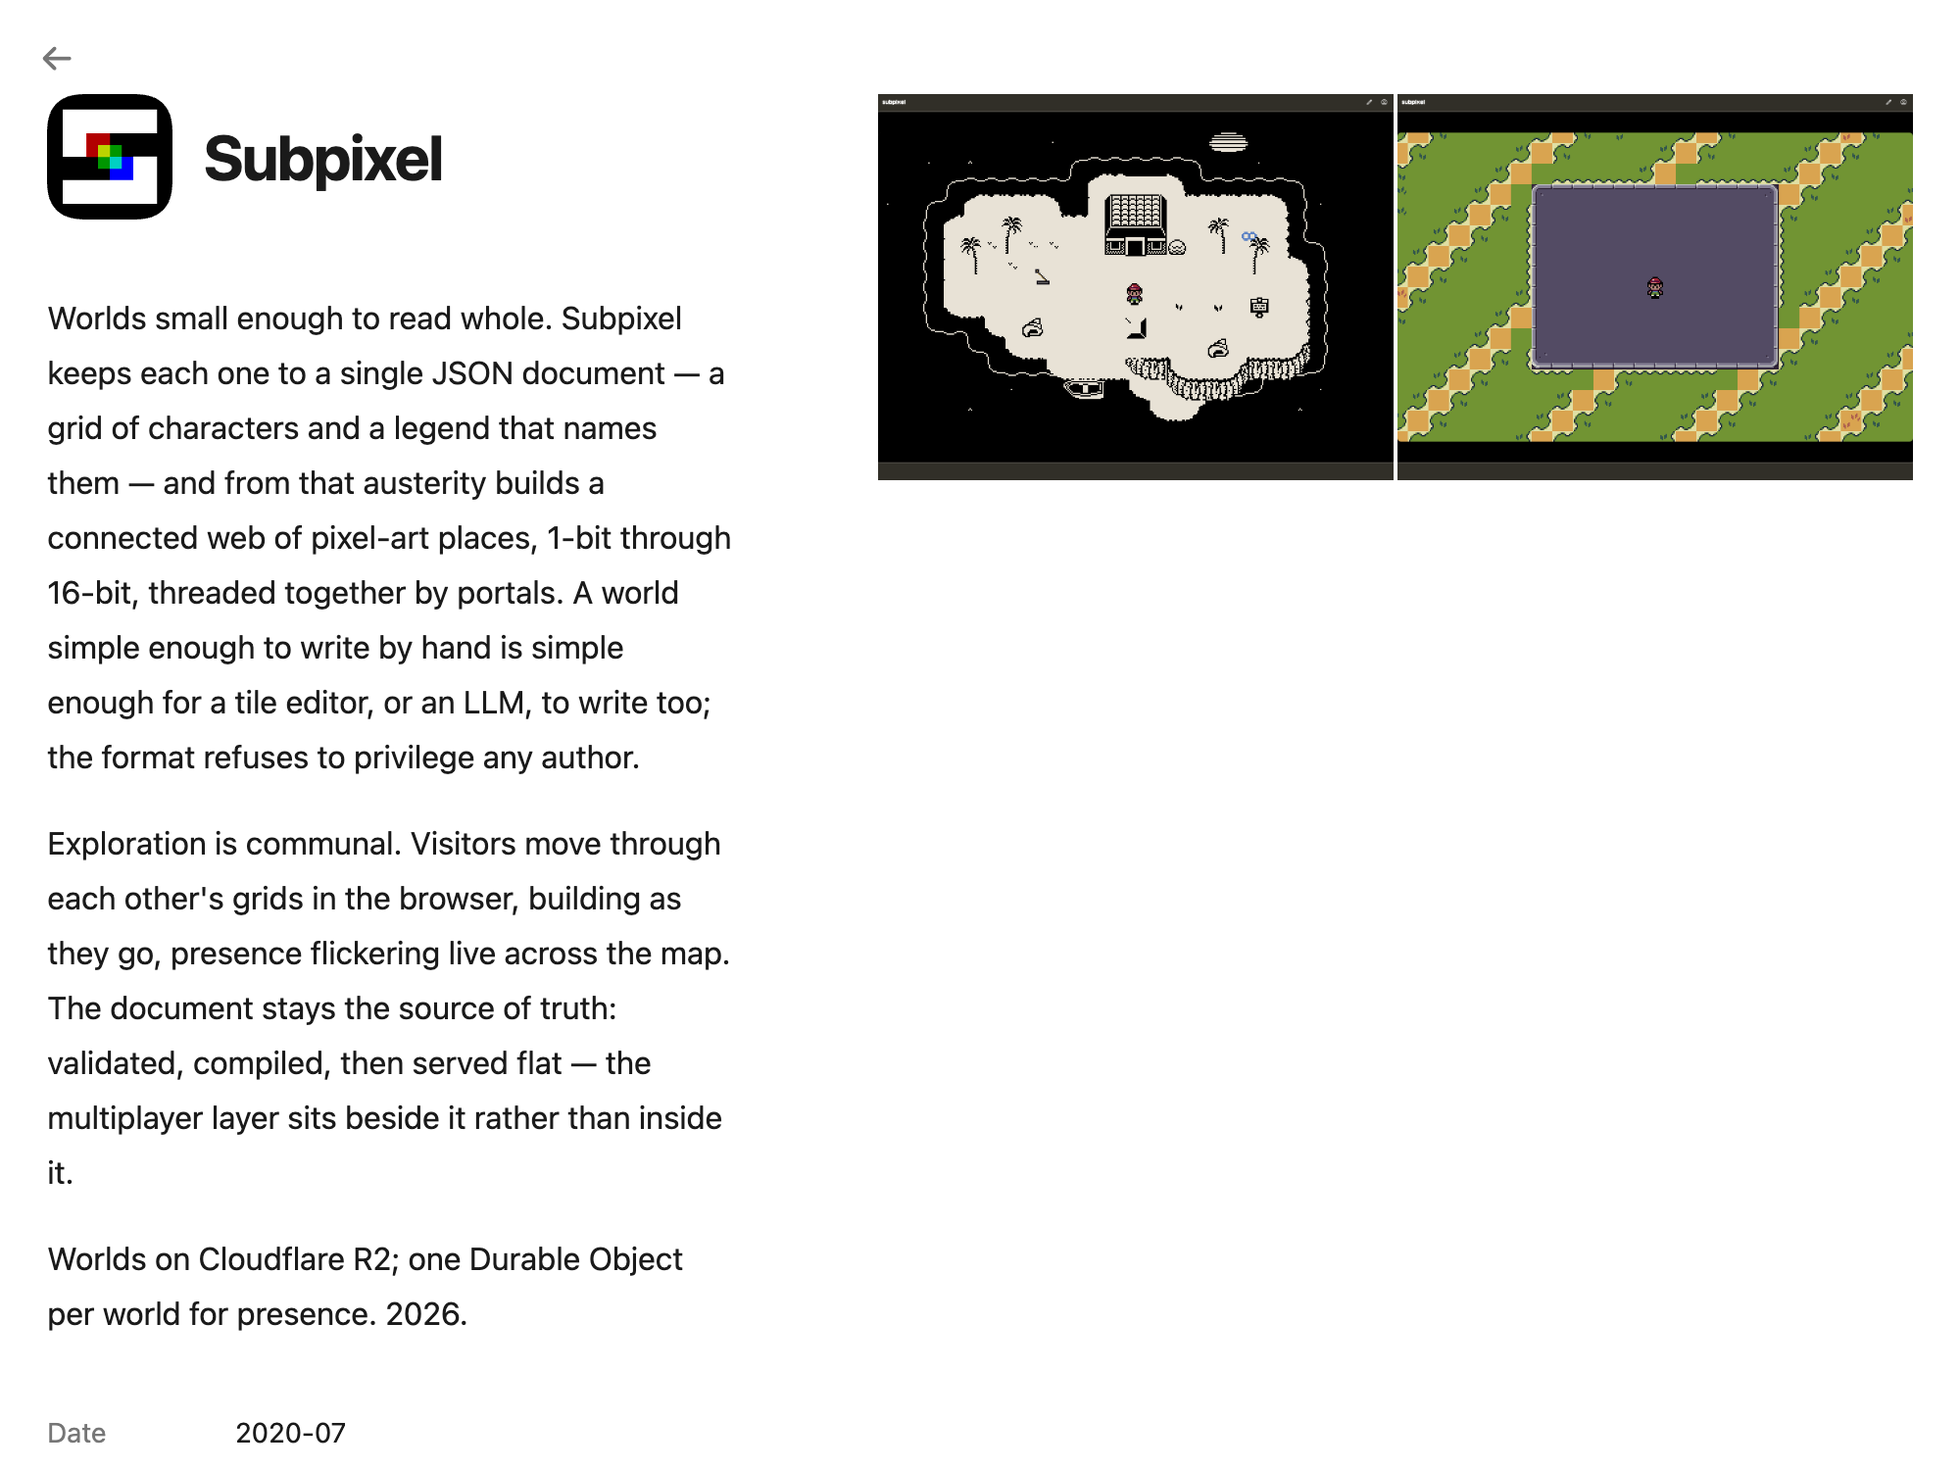
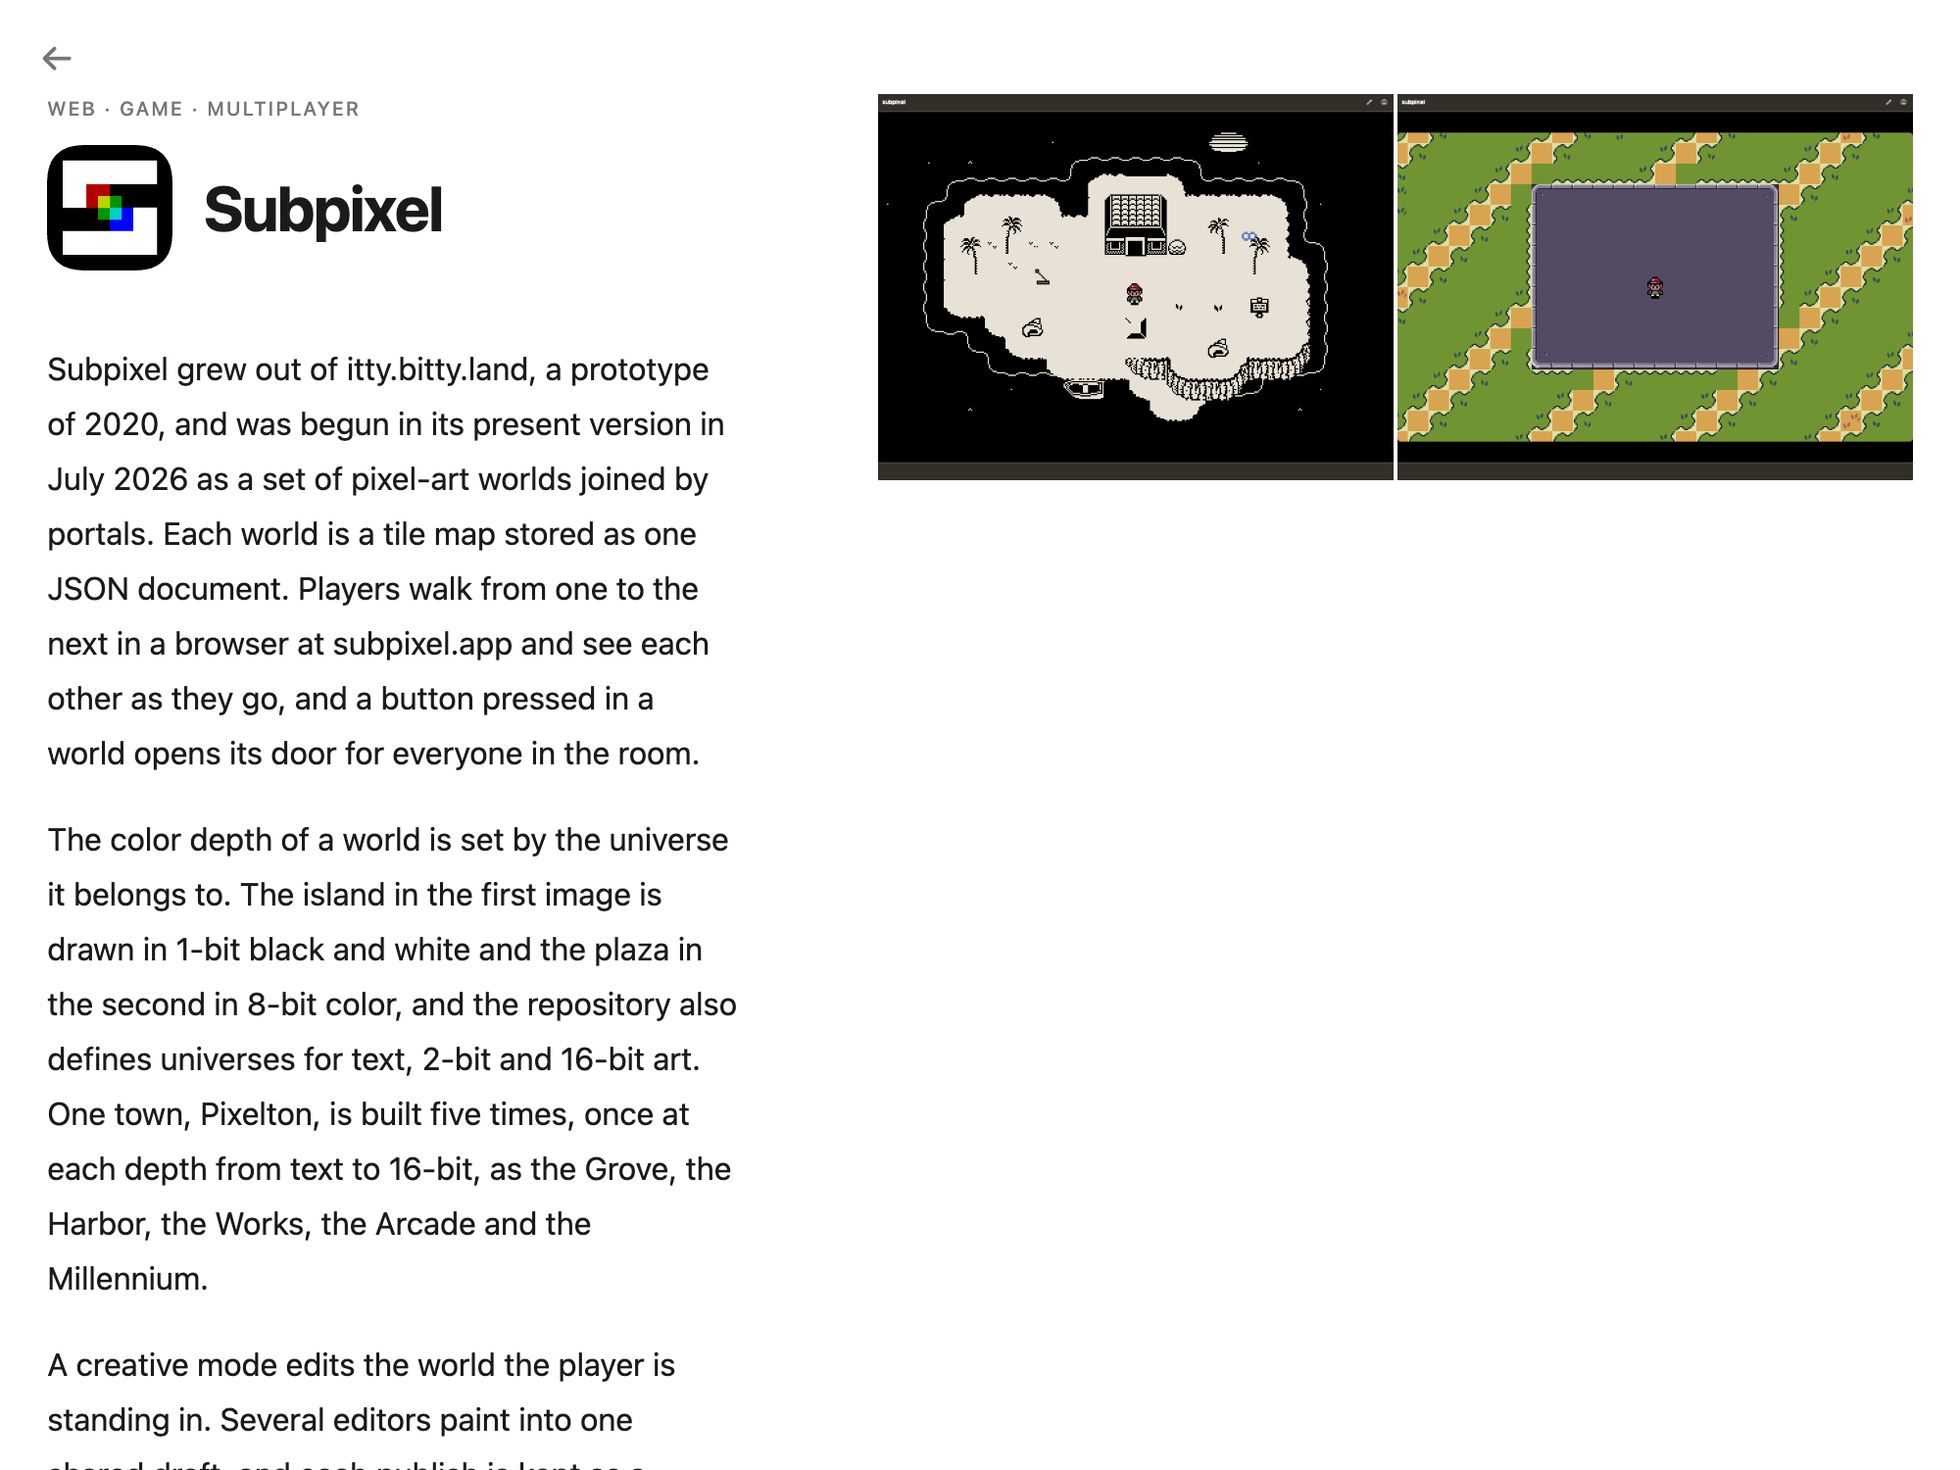
Tags above the title, from a fixed vocabulary (#17)
Tags move above the title and come from a fixed vocabulary.

- **Vocabulary:** `tags.base.yml` (template-owned: platform, form,
subject, each with a label) plus a site's own `tags.yml`. The checker
errors on a tag in neither, and warns when a subject or site tag groups
only one entry. No licence or stack tags (`open-source` is gone).
- **Display:** one line of small capitals above the title on index cards
and entry pages, shown by label (`WEAR OS`, not `wear-os`).
- **Template entry:** `.artifact/catalogue.md` recaptured
`entry-page.png` from the current layout, and dropped its `url`, which
pointed at an empty placeholder site.
- **Docs:** README "Tags", AGENTS.md and the `new-project` skill.

**Verified:** `npm test` 15/15 on this branch, 36/36 merged with
`og-metadata`. The Artifact fork's 42 entries pass the checker with
these tags.

**Merge as a merge commit, not a squash**, for the same reason as
`og-metadata`: the fork already has these commits.

---------

Changed region(s): [[0.031, 0.552, 0.372, 0.9813], [0.031, 0.2147, 0.372, 0.5213], [0.0, 0.0613, 0.248, 0.184]]

diff --git a/scripts/check-entries.js b/scripts/check-entries.js
@@ -24,6 +24,7 @@ const config = schema.loadConfig();
 const kinds = schema.linkKinds(config);
 const categoryIds = schema.categories(config).map((c) => c.id);
 const vocabulary = schema.tagVocabulary();
+const baseTags = schema.tagVocabulary({ site: null });
 const people = schema.contributors();
 const sourceFolder = option("--dir");
 const remote = flag("--remote");
@@ -126,7 +127,7 @@ async function checkEntry(file) {
   const tags = Array.isArray(data.tags) ? data.tags.map(String) : [];
   for (const tag of tags) {
     if (tag !== tag.toLowerCase()) warnings.push(`tag "${tag}" isn't lowercase`);
-    if (vocabulary && !vocabulary.has(tag)) errors.push(`tag "${tag}" isn't in tags.yml`);
+    if (!vocabulary.has(tag)) errors.push(`tag "${tag}" isn't in tags.base.yml or tags.yml`);
   }
 
   if (data.url !== undefined && !/^https:\/\//.test(data.url)) errors.push(`url "${data.url}" isn't https://`);
@@ -259,12 +260,29 @@ async function checkEntry(file) {
     }
   }
 
-  return { slug, errors, warnings };
+  return { slug, errors, warnings, tags };
+}
+
+// A subject tag, or a site's own tag, should group at least two entries.
+// Only meaningful across the whole site, so skipped for a single --dir.
+function warnLoneTags(results) {
+  if (sourceFolder) return;
+  const uses = new Map();
+  for (const r of results) for (const tag of r.tags) uses.set(tag, [...(uses.get(tag) || []), r]);
+  for (const [tag, users] of uses) {
+    if (!vocabulary.has(tag)) continue; // already an error
+    const group = vocabulary.get(tag).group;
+    const site = !baseTags.has(tag);
+    if (users.length === 1 && (group === "subject" || site)) {
+      users[0].warnings.push(`tag "${tag}" is used by no other entry; subject and site tags should group two or more`);
+    }
+  }
 }
 
 async function main() {
   const results = [];
   for (const file of entryFiles()) results.push(await checkEntry(file));
+  warnLoneTags(results);
 
   if (flag("--report")) {
     console.log("| Entry | Errors | Warnings |\n|---|---|---|");

diff --git a/scripts/lib/schema.js b/scripts/lib/schema.js
@@ -2,6 +2,7 @@
 // and the importer so the three can't drift apart.
 
 const fs = require("fs");
+const path = require("path");
 const yaml = require("js-yaml");
 
 const CONFIG_FILE = "catalogue.config.yml";
@@ -48,12 +49,26 @@ function categories(config) {
   return list.map((c) => (typeof c === "string" ? { id: c, label: c[0].toUpperCase() + c.slice(1) } : c));
 }
 
-// `tags.yml` is optional: a list of tags, or a map of groups to lists.
-function tagVocabulary(file = "tags.yml") {
-  if (!fs.existsSync(file)) return null;
-  const data = yaml.load(fs.readFileSync(file, "utf8"));
-  const tags = Array.isArray(data) ? data : Object.values(data || {}).flat();
-  return new Set(tags.map(String));
+// The tags entries may use: the template's tags.base.yml plus the site's
+// optional tags.yml. Either file is a map of group to {tag: label}; tags.yml
+// may also be a plain list, or a map of groups to lists, and those tags show
+// as written. Returns Map<tag, {label, group}>.
+function readTagFile(file, tags) {
+  if (!fs.existsSync(file)) return;
+  const data = yaml.load(fs.readFileSync(file, "utf8")) || {};
+  const add = (tag, label, group) => tags.set(String(tag), { label: String(label ?? tag), group });
+  if (Array.isArray(data)) return data.forEach((tag) => add(tag, tag, null));
+  for (const [group, list] of Object.entries(data)) {
+    if (Array.isArray(list)) list.forEach((tag) => add(tag, tag, group));
+    else for (const [tag, label] of Object.entries(list || {})) add(tag, label, group);
+  }
+}
+
+function tagVocabulary({ base = path.join(__dirname, "../../tags.base.yml"), site = "tags.yml" } = {}) {
+  const tags = new Map();
+  readTagFile(base, tags);
+  if (site) readTagFile(site, tags);
+  return tags;
 }
 
 // `contributors.yml` is optional: a map of GitHub login to {name, url, ...}.

diff --git a/styles/main.css b/styles/main.css
@@ -277,21 +277,31 @@ body:has(.index-hero) .site-header { display: none; }
   color: var(--muted);
 }
 
-.entry-card__tags {
+/* Tags: one line of small capitals above the title, on cards and entries. */
+.tag-line {
   list-style: none;
+  padding: 0;
   display: flex;
   flex-wrap: wrap;
-  gap: 0.375rem;
-  margin-top: 0.25rem;
+  font-size: 0.625rem;
+  font-weight: 500;
+  line-height: 1.4;
+  letter-spacing: 0.08em;
+  text-transform: uppercase;
+  color: var(--muted);
 }
 
-.entry-card__tags li {
-  font-size: 0.75rem;
-  color: var(--muted);
-  border: 1px solid var(--border);
-  padding: 0.125rem 0.5rem;
-  border-radius: 99px;
+.tag-line li + li::before {
+  content: "\00B7";
+  display: inline-block;
+  width: 1.25em;
+  margin-left: -0.08em; /* the previous word's trailing letter-spacing */
+  text-align: center;
+  letter-spacing: 0;
 }
+
+.entry-card__meta .tag-line { margin-bottom: 0.25rem; }
+.entry__tags { margin-bottom: calc(var(--gap) * -1); }
 
 /* ─── Entry detail ───────────────────────────────────────────────────────── */
 .entry {
@@ -329,13 +339,6 @@ body:has(.index-hero) .site-header { display: none; }
 }
 
 .entry__meta dt { color: var(--muted); }
-
-.tag-list {
-  list-style: none;
-  display: flex;
-  flex-wrap: wrap;
-  gap: 0.375rem;
-}
 
 .credit-list {
   list-style: none;

diff --git a/test/tags.test.js b/test/tags.test.js
@@ -1,0 +1,30 @@
+const test = require("node:test");
+const assert = require("node:assert");
+const fs = require("fs");
+const os = require("os");
+const path = require("path");
+const schema = require("../scripts/lib/schema");
+
+function siteFile(text) {
+  const file = path.join(fs.mkdtempSync(path.join(os.tmpdir(), "tags-")), "tags.yml");
+  fs.writeFileSync(file, text);
+  return file;
+}
+
+test("the base tags load with their labels and groups", () => {
+  const tags = schema.tagVocabulary({ site: null });
+  assert.deepStrictEqual(tags.get("wear-os"), { label: "Wear OS", group: "platform" });
+  assert.strictEqual(tags.get("time").group, "subject");
+  assert.ok(!tags.has("open-source"));
+});
+
+test("a site's tags.yml adds to the base tags", () => {
+  const tags = schema.tagVocabulary({ site: siteFile("subject:\n  music: Music\n") });
+  assert.deepStrictEqual(tags.get("music"), { label: "Music", group: "subject" });
+  assert.ok(tags.has("web"));
+});
+
+test("a tags.yml in the old list shapes still loads", () => {
+  assert.strictEqual(schema.tagVocabulary({ site: siteFile("- zine\n") }).get("zine").label, "zine");
+  assert.strictEqual(schema.tagVocabulary({ site: siteFile("media: [zine]\n") }).get("zine").group, "media");
+});

diff --git a/.eleventy.js b/.eleventy.js
@@ -206,13 +206,17 @@ module.exports = function (eleventyConfig) {
     return undefined;
   });
 
-  // How an entry's date reads: as written, YYYY-MM or YYYY.
   // Credits by GitHub login resolve against contributors.yml (see schema.js).
   const people = schema.contributors() || {};
   eleventyConfig.addFilter("resolveCredits", (credits) =>
     (credits || []).map((item) => schema.resolveCredit(item, people))
   );
 
+  // A tag shows as its label from tags.base.yml or tags.yml.
+  const tags = schema.tagVocabulary();
+  eleventyConfig.addFilter("tagLabel", (tag) => tags.get(String(tag))?.label || tag);
+
+  // How an entry's date reads: as written, YYYY-MM or YYYY.
   eleventyConfig.addFilter("entryDate", (value) =>
     value instanceof Date ? value.toISOString().slice(0, 7) : String(value ?? "")
   );

diff --git a/README.md b/README.md
@@ -153,7 +153,7 @@ Each project is a Markdown file in `projects/` with YAML frontmatter.
 title: Project Title                 # required
 date: 2024-06                        # required: when it happened (YYYY-MM or YYYY)
 category: project                    # one of `categories:` in the config; optional with only one
-tags: [print, identity]              # optional; checked against tags.yml if the site has one
+tags: [print, identity]              # optional; from tags.base.yml or tags.yml (see Tags)
 url: https://my-project.example      # optional: the project's own page, shown as Link
 links:                               # optional: every public way to get it, shown as "Get it"
   app_store: https://apps.apple.com/app/id000000000
@@ -226,6 +226,43 @@ pointing at the wrong site, missing images, oversized files and non-square
 icons. `npm run check -- --remote` also fetches every link and image, and
 `--report` prints a table. Guesses listed in `unconfirmed` show up as warnings
 until you remove them.
+
+---
+
+## Tags
+
+Tags show as one line of small capitals above each entry's title. An entry may
+use the base tags in `tags.base.yml` and any the site adds in `tags.yml`; the
+checker errors on anything else.
+
+The base tags come in three groups:
+
+- **platform:** where it runs or what it's made in (`web`, `ios`, `android`,
+  `wear-os`, `pebble`, `browser-extension`, `hardware`, `print`…). Tag every
+  platform an entry ships on.
+- **form:** what kind of thing it is, where the category doesn't say it
+  (`game`, `widget`, `watchface`).
+- **subject:** what it's about (`time`, `writing`, `multiplayer`, `design`…).
+
+To add a tag, put it in `tags.yml` under one of those groups, with the label
+pages show:
+
+```yaml
+subject:
+  music: Music
+```
+
+The rules for a new tag:
+
+- It groups two or more entries. A tag that only one entry uses says nothing a
+  visitor can browse by; put that detail in the entry's text. The checker warns
+  about subject tags and site tags used only once.
+- It describes the work, not how it's built or licensed: no `react`,
+  `swift`, `open-source`. A source link already says the code is public.
+- It doesn't repeat the category: an entry in Tools doesn't need `tool`.
+- Lowercase and hyphenated (`wear-os`), singular (`game`, not `games`).
+- A platform belongs in the base list; propose it upstream in
+  arfct/catalogue rather than only in a site's `tags.yml`.
 
 ---
 
@@ -390,7 +427,8 @@ URLs.
 ```
 catalogue.config.yml   ← your name, settings, stack choice
 projects/              ← one .md file per project (_sample.md is the reference)
-tags.yml               ← optional: the tags entries may use
+tags.base.yml          ← the template's base tags (don't edit; it updates with the template)
+tags.yml               ← optional: the site's own tags, added by the rules under Tags
 contributors.yml       ← optional: names and links for credited GitHub logins
 pages/                 ← standalone pages (_sample.md is the reference; 404.njk)
 media/                 ← images (committed, synced to R2 or served directly)

diff --git a/.artifact/catalogue.md b/.artifact/catalogue.md
@@ -4,20 +4,19 @@ date: 2026-06
 category: tool
 tags:
   - web
-  - tools
-  - open-source
-url: https://arfct.github.io/catalogue/
 links:
   source: https://github.com/arfct/catalogue
 media:
   - src: entry-page.png
-    caption: Subpixel's entry in Artifact's own catalogue, imported from Subpixel's repo
-    alt: A catalogue page with the Subpixel icon and title, three paragraphs of text, and two pixel-art screenshots of island and plaza worlds
+    caption: Subpixel's page in Artifact's catalogue, its tags in small capitals above the icon and title and its images to the right of the text
+    alt: A catalogue page with a small capitals line reading Web, Game, Multiplayer above the Subpixel icon and title, paragraphs of text below, and two pixel-art screenshots of island and plaza worlds to the right
 unconfirmed: [date]
 ---
 
-One Markdown file per project: a title, a date, its images, a few paragraphs. Eleventy turns the folder of them into an index and a page for each entry, published to GitHub Pages or to Cloudflare with the images in R2. Any page prints to PDF.
+An entry in a Catalogue Raisonné site can be kept in the repo of the project it describes, in a hidden `.artifact/` folder, so that the description changes in the same commit as the work. An import script copies each folder into the catalogue through the GitHub CLI, which lets private repos take part, and it leaves a hand-written entry alone unless told to adopt it.
 
-An entry can also live in the repo of the thing it describes, in a hidden `.artifact/` folder, and the catalogue imports it from there, so the entry changes in the same pull request as the product. A checker flags placeholder images, guessed dates and dead links before anything is published. `AGENTS.md` walks a coding agent, and the person beside it, through setup.
+Catalogue Raisonné is the template such sites are forked from. Each project is one Markdown file with a title, a date, images and a few paragraphs; Eleventy builds the files into an index and a page for every entry, and a GitHub Action publishes the result to GitHub Pages. The README documents a second setup on Cloudflare, with the images in R2. Tags, set in small capitals above each title, come from a base list that a site can extend, and the checker rejects any other tag and warns about a subject tag that only one entry uses. A print stylesheet covers export to PDF.
 
-Artifact's catalogue is a fork. Eleventy and Node. 2026.
+The image shows Subpixel's page in Artifact's catalogue, one such fork.
+
+Eleventy, Node. 2026.

diff --git a/.claude/skills/new-project/SKILL.md b/.claude/skills/new-project/SKILL.md
@@ -35,7 +35,7 @@ Create `projects/<slug>.md` — kebab-case slug; it becomes the URL `/p/<slug>/`
 - `url` is the project's own page. Every other public way to get it (store pages, a public beta, a public repo) goes in `links`, with the keys listed in the README.
 - `category`, if the site has more than one in `catalogue.config.yml`.
 - Anything you inferred and couldn't confirm goes in `unconfirmed` (e.g. `[date]`), so the checker keeps flagging it.
-- Tags: short, lowercase, kebab-case (`open-source`, not `open source`). Reuse tags from existing entries where they fit.
+- Tags: only those in `tags.base.yml` or the site's `tags.yml`; the checker errors on any other. Read README "Tags" for the groups and the rules (no stack or license tags such as `open-source`; a new tag must group two or more entries) before proposing one, and add it to `tags.yml` only with the user's agreement.
 - Credits: everyone else involved goes in `credits:` (name, optional role and url) — the entry should appreciate collaborators, not just the author. `role:` stays the author's own role. Credits live in frontmatter, not the body.
 - Body: 1–3 short paragraphs in the voice below.
 

diff --git a/projects/_sample.md b/projects/_sample.md
@@ -2,7 +2,7 @@
 title: Sample Project
 date: 2024-06                 # when it happened: first release, or first working version (YYYY-MM or YYYY)
 category: project             # one of `categories:` in catalogue.config.yml; optional with a single category
-tags: [design, identity]      # lowercase; from tags.yml if the site has one
+tags: [print, identity]       # from tags.base.yml or tags.yml; see README "Tags"
 url: https://example.com      # the project's own page
 links:                        # every public way to get it; keys listed in the README
   app_store: https://apps.apple.com/app/id000000000

diff --git a/AGENTS.md b/AGENTS.md
@@ -46,6 +46,9 @@ returns HTTP 200, turning every mistyped URL into a soft 404.
   the `stack:` choice. Read it before doing anything stack-dependent.
 - `styles/main.css` is the theme; put per-site changes in `styles/custom.css`
   so template updates merge cleanly.
+- Tags come from `tags.base.yml` (template-owned; don't edit it in a site)
+  and the site's `tags.yml`. Before adding a tag, read README "Tags": it must
+  group two or more entries and describe the work, not the stack or license.
 - Don't commit, push, or deploy unless asked.
 
 ## Entries from other repos
